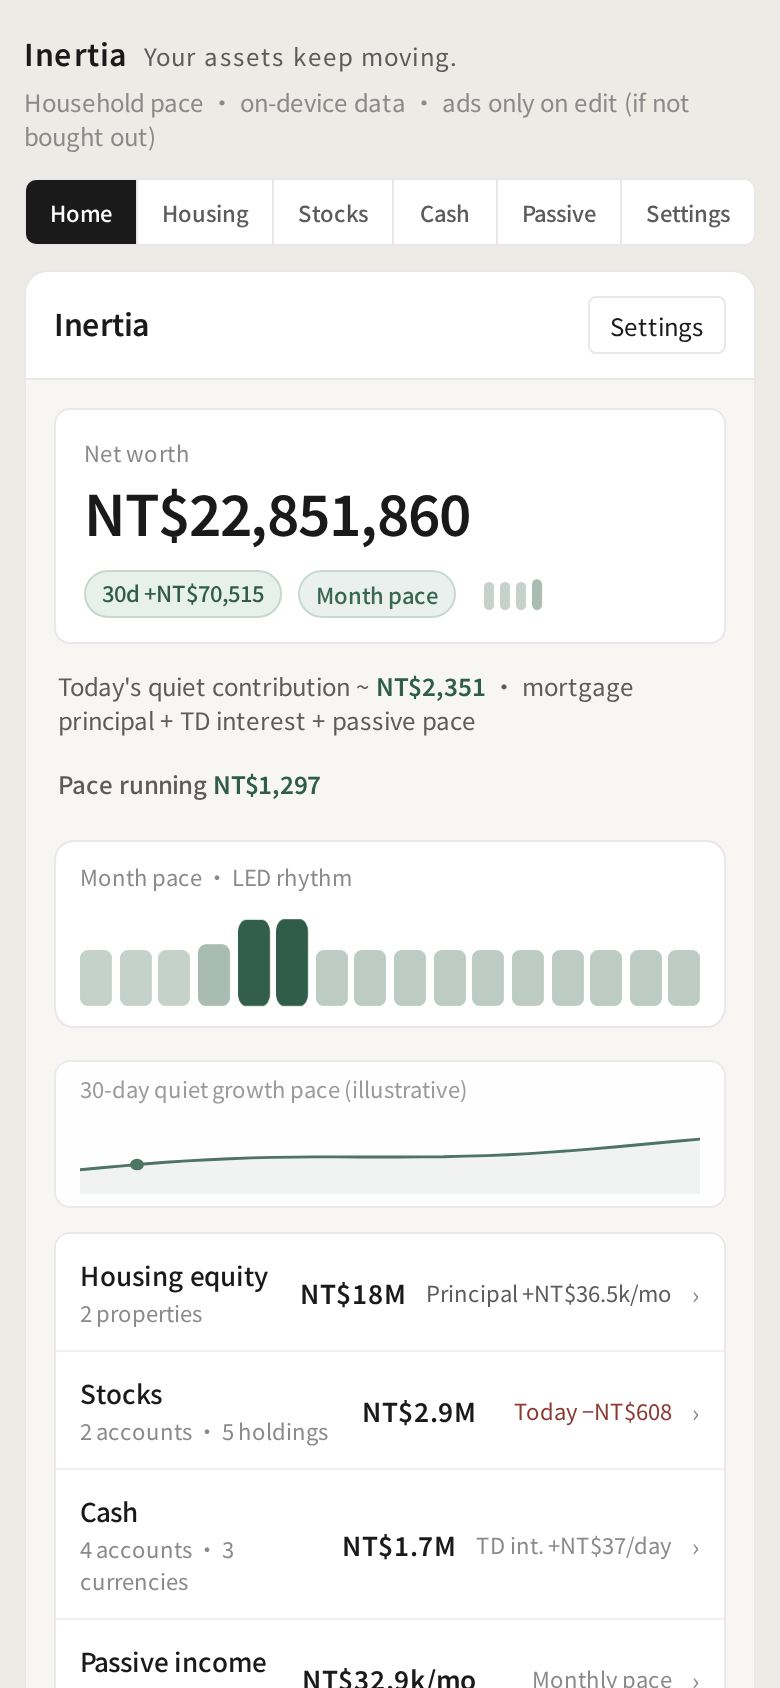
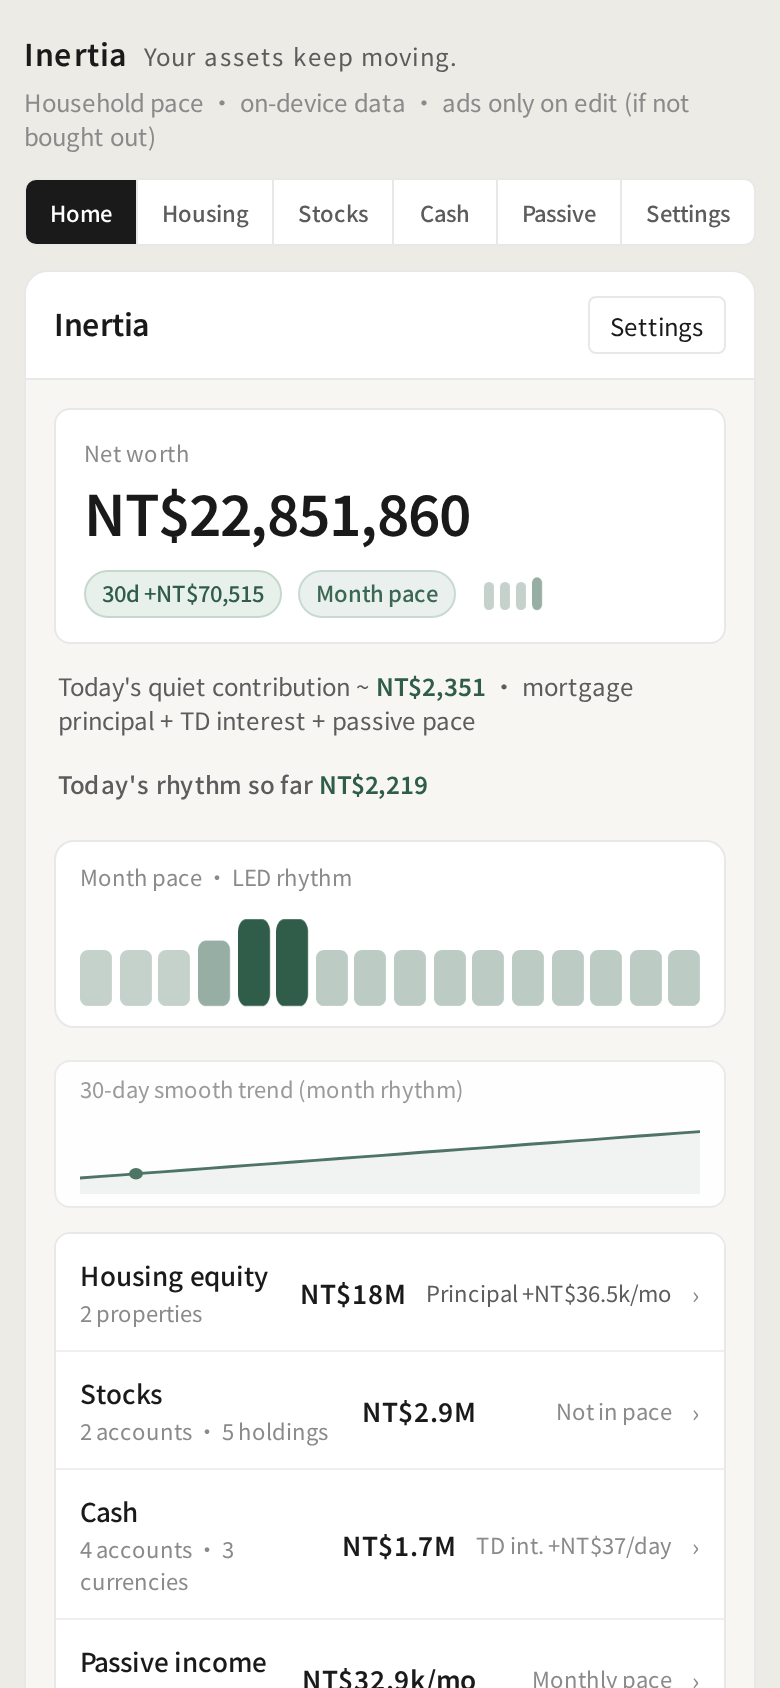
docs: month rhythm only (PRD 7b smooth accrual, widget anchor, marketing audit); refresh v3 shots

diff --git a/PRD.md b/PRD.md
@@ -41,7 +41,7 @@ On **flat or red market days**, Taiwanese households with Housing + TWSE + Cash 
 ## 3. Product principles
 
 1. **Widget-first** — Lock small + Home medium are the product; full app is setup and depth.
-2. **Honesty** — Never invent TWSE gains. Toggle: **Today actual** vs **Month pace**.
+2. **Month rhythm only (v0.3.1)** — Inertia exists so long-term investors don't feel short-term volatility. It shows only the smooth **month rhythm** (月節奏): mortgage principal + deposit interest + passive income, spread evenly per day. No "today actual" mode, no daily market P&L on Home or widgets, and never invented market gains.
 3. **Quiet growth** — Celebrate principal / interest accrual / passive pace on flat days.
 4. **Calm / practical** — Soft neutrals, one muted green (`#2F5D4A`); no alert spam; no emoji chrome.
 5. **Manual truth (MVP)** — User-entered balances & rates are primary. Fully **local-first**.
@@ -76,7 +76,7 @@ On **flat or red market days**, Taiwanese households with Housing + TWSE + Cash 
 
 ### MVP (this web app)
 - Four buckets + net worth; quiet-day math
-- App Home, bucket detail ×4 with Edit, Settings (honesty, period, buyout mock, quotes about)
+- App Home, category detail ×4 with lists, Settings (language, currency & FX, period, month-rhythm explainer, buyout mock)
 - Widget **preview** pages (lock + home medium) — labeled Preview; **no ads**
 - Local persistence; ad gate on edit open/save when not bought out
 - User-defined lists per category, multi-currency with base currency + editable FX table
@@ -103,7 +103,7 @@ currency** (Settings → Currency & FX, default TWD).
 | Category | Items | Fields |
 |----------|-------|--------|
 | Housing | `properties[]` | `alias`, `currency`, `marketValue`, `mortgageBalance`, `monthlyPrincipal`, `interestRate?` → equity = value − mortgage |
-| Stocks | `brokerAccounts[]` → `holdings[]` | account: `alias`, `market`, `currency` (defaults from market), `dayPnL`, `periodPnL`; holding: `symbol`, `name?`, `shares`, `price`, `costBasis?` (value = shares × price, account currency) |
+| Stocks | `brokerAccounts[]` → `holdings[]` | account: `alias`, `market`, `currency` (defaults from market), holding: `symbol`, `name?`, `shares`, `price`, `costBasis?` (value = shares × price, account currency) |
 | Cash | `cashAccounts[]` | `alias`, `institution?`, `country?`, `currency`, `type` checking/savings/timeDeposit, `balance`, `rate` + `maturity?` (time deposit only) |
 | Passive income | `passiveItems[]` | `name`, `tag?`, `currency`, `amount`, `frequency` monthly/quarterly/semiannual/yearly (normalized to a monthly pace) |
 
@@ -119,9 +119,24 @@ round trips) and converts goal targets so goal progress is unchanged. Rounded pr
 
 **Migration (schema 1 → 2)**, on first load of v0.3: the raw old save is kept once under
 `inertia.v1.backup-schema1`, then housing → one property ("自住"/"Home", localized), TWSE bucket →
-one TW brokerage account with one holding (1 share × old market value, P&L carried over),
+one TW brokerage account with one holding (1 share × old market value; v1 day/period P&L are not carried over since v0.3.1),
 checking + time deposit → two cash accounts (rate kept), passive monthly → one monthly item.
 Net worth is unchanged by the migration. Fresh installs get demo lists (zh or en names).
+
+## 7b. Smooth accrual between edits (v0.3.1)
+
+`paceAnchorAt` (top-level in the save) is when the asset numbers were last entered. Displayed
+net worth = entered net worth + `quietDayGrowth` × days since the anchor, **capped at 45 days**
+(then Home asks for an update). Saving a changed amount / rate / currency, adding or deleting an
+item re-anchors to the typed values; renames, reorder and FX edits don't. Home's net worth and
+"today's rhythm so far" (quietDay × share of the day elapsed) tick forward live; the 30-day line
+is a smooth monotonic trend. The Android widget gets the same anchor (`live.base` = entered net
+worth, `live.at` = anchor) and extrapolates with the identical formula and cap, so app and widget
+always agree and never jump when the app re-pushes a snapshot.
+
+Settings migration: `settings.honesty` and the widget privacy field `todayActual` are dropped on
+load and the save is rewritten once; a missing or future anchor starts at "now" (no jump on upgrade).
+No hidden advanced option was kept: nothing depended on the switch.
 
 ## 8. Quiet-day math
 
@@ -165,7 +180,7 @@ Future:
 |--------|--------|
 | Widget add after onboarding | ≥ 60% |
 | Widget glances ≫ full-app opens | Yes |
-| Quiet-day retention (dayPnL ≤ 0) | Glance or open |
+| Quiet-day retention (red market days) | Glance or open |
 | Buyout after repeated edits | Soft, non-blocking on browse |
 
 ---

diff --git a/docs/MARKETING_AUDIT.md b/docs/MARKETING_AUDIT.md
@@ -17,7 +17,7 @@ Glanceable **household asset pace** on lock/home widgets. Quiet growth (mortgage
 ### Gap A — Broker / securities apps (富邦、永豐、元大、國泰等)
 | They own | Inertia must own |
 |----------|------------------|
-| Live quotes, order entry, P&L red/green wall | **Pace**, not tick; honesty toggle *Today actual* vs *Month pace* |
+| Live quotes, order entry, P&L red/green wall | **Pace**, not tick; month rhythm only (v0.3.1: the *Today actual* toggle was removed) |
 | Account login, KYC, custody | **No account**; data on device |
 | Push: fills, price alerts, promo | **No spammy push**; widget glance is the loop |
 | “開戶 / 下單 / 存股” | “平盤日仍在動” / quiet contribution |
@@ -54,7 +54,7 @@ Missing until native widgets ship, but **design now**:
 | 1 | Lock + home widget on realistic iPhone home (TW wallpaper, NT$ amounts) | Quiet growth, at a glance | 平盤日也看得到進度 |
 | 2 | App Home — rhythm / month pace (not a KPI grid) | Your assets keep moving | 資產仍在默默前進 |
 | 3 | Four buckets row (Housing / TWSE / Cash / Passive) | Household, not day-trading | 家庭資產，不是當沖 |
-| 4 | Honesty toggle: Today actual vs Month pace | Never fake market gains | 不假裝市場有賺 |
+| 4 | Month rhythm only (today-actual toggle removed in v0.3.1) | Never fake market gains; never show daily market noise | 不假裝市場有賺，也不放大每日波動 |
 | 5 | Edit sheet + soft “ads only when you edit” cue | Free to browse; buy out once | 瀏覽免費；編輯才看廣告 |
 | 6 | Local-first / no account | Stays on your phone | 資料留在你的手機 |
 | 7 | Delayed quotes optional + confirm | You confirm every update | 報價更新需你確認 |

diff --git a/README.md b/README.md
@@ -37,7 +37,7 @@ npm run preview  # serve dist/
 
 ### See rhythm animations
 
-- Default honesty is **Month pace** — Home shows metronome bars (4 beats, ~2s cycle), live **Pace running** counter, sparkline stroke draw + playhead within ~1s of load.
+- **Month rhythm only** (v0.3.1; no today-actual switch, no daily market P&L): Home shows metronome bars (4 beats, ~2s cycle), a live **Today's rhythm so far** counter, net worth that grows only by the smooth pace since your last edit (45-day cap), and a smooth 30-day trend line with playhead.
 - **Recording / clearer motion:** open `http://127.0.0.1:5173/?demo=1`  
   Adds `body.demo-rhythm` (taller/faster beats, faster playhead & counter).
 - Standalone full-bleed demo: `http://127.0.0.1:5173/rhythm-demo.html` (auto-cycles lock → home).
@@ -73,7 +73,7 @@ Config: `playwright.config.ts` — `baseURL` `http://127.0.0.1:5173`, `webServer
 | Multi-currency | Per-item currency, base currency + editable FX table (Settings → Currency & FX) |
 | UI i18n (zh-TW / en / es / ja / ko) | Working — Inertia name fixed |
 | Rhythm motion (metronome, live counter, spark playhead) | Working — Home + lock widget preview |
-| Quiet-day math | `dailyPrincipal + dailyTdInterest + dailyPassivePace` |
+| Quiet-day math | `dailyPrincipal + dailyTdInterest + dailyPassivePace`; the only source of movement between edits (`src/pace.js`, PRD §7b) |
 | Persistence | `localStorage` key `inertia.v1`, `schemaVersion: 2` (schema-1 saves migrate automatically; raw copy kept in `inertia.v1.backup-schema1`) |
 | Ad gate | Only on saving a new item or a changed amount / rate / currency, when not bought out |
 | Buyout | Settings “Buyout unlock (mock)” |

diff --git a/docs/ANDROID_WIDGET.md b/docs/ANDROID_WIDGET.md
@@ -20,7 +20,10 @@ localStorage inertia.v1 ─▶ src/widgetSnapshot.js  (derive + widgetPrivacy.js
     is already visible): `base + perDay × days since snapshot`, capped at 45 days, then formatted
     with `WidgetFormat` using `live.prefix` (the base-currency symbol) and `live.format`
     (`exact`, or `wan` for a TWD base / `round` k/M/B for other bases in rounded mode). Mirrors
-    `fmtMoney` / `fmtRounded`, JVM unit-tested.
+    `fmtMoney` / `fmtRounded`, JVM unit-tested. Since v0.3.1 `live.base` / `live.at` are the
+    smooth-rhythm **anchor** (net worth as entered, and when), not the push time, so the widget and
+    the app's Home (`src/pace.js`) compute the same number and re-pushing never makes it jump.
+    There is no market P&L in the snapshot and no "today actual" privacy field any more.
   - **Calendar**: the rhythm bar and the relative-mode "本月進度 N%" use today's date on the device.
 - `updatePeriodMillis = 30 min` redraws the widget (extrapolation + calendar); the "更新 HH:mm" label
   always shows when the app last pushed a snapshot (`M/d HH:mm` if not today).
